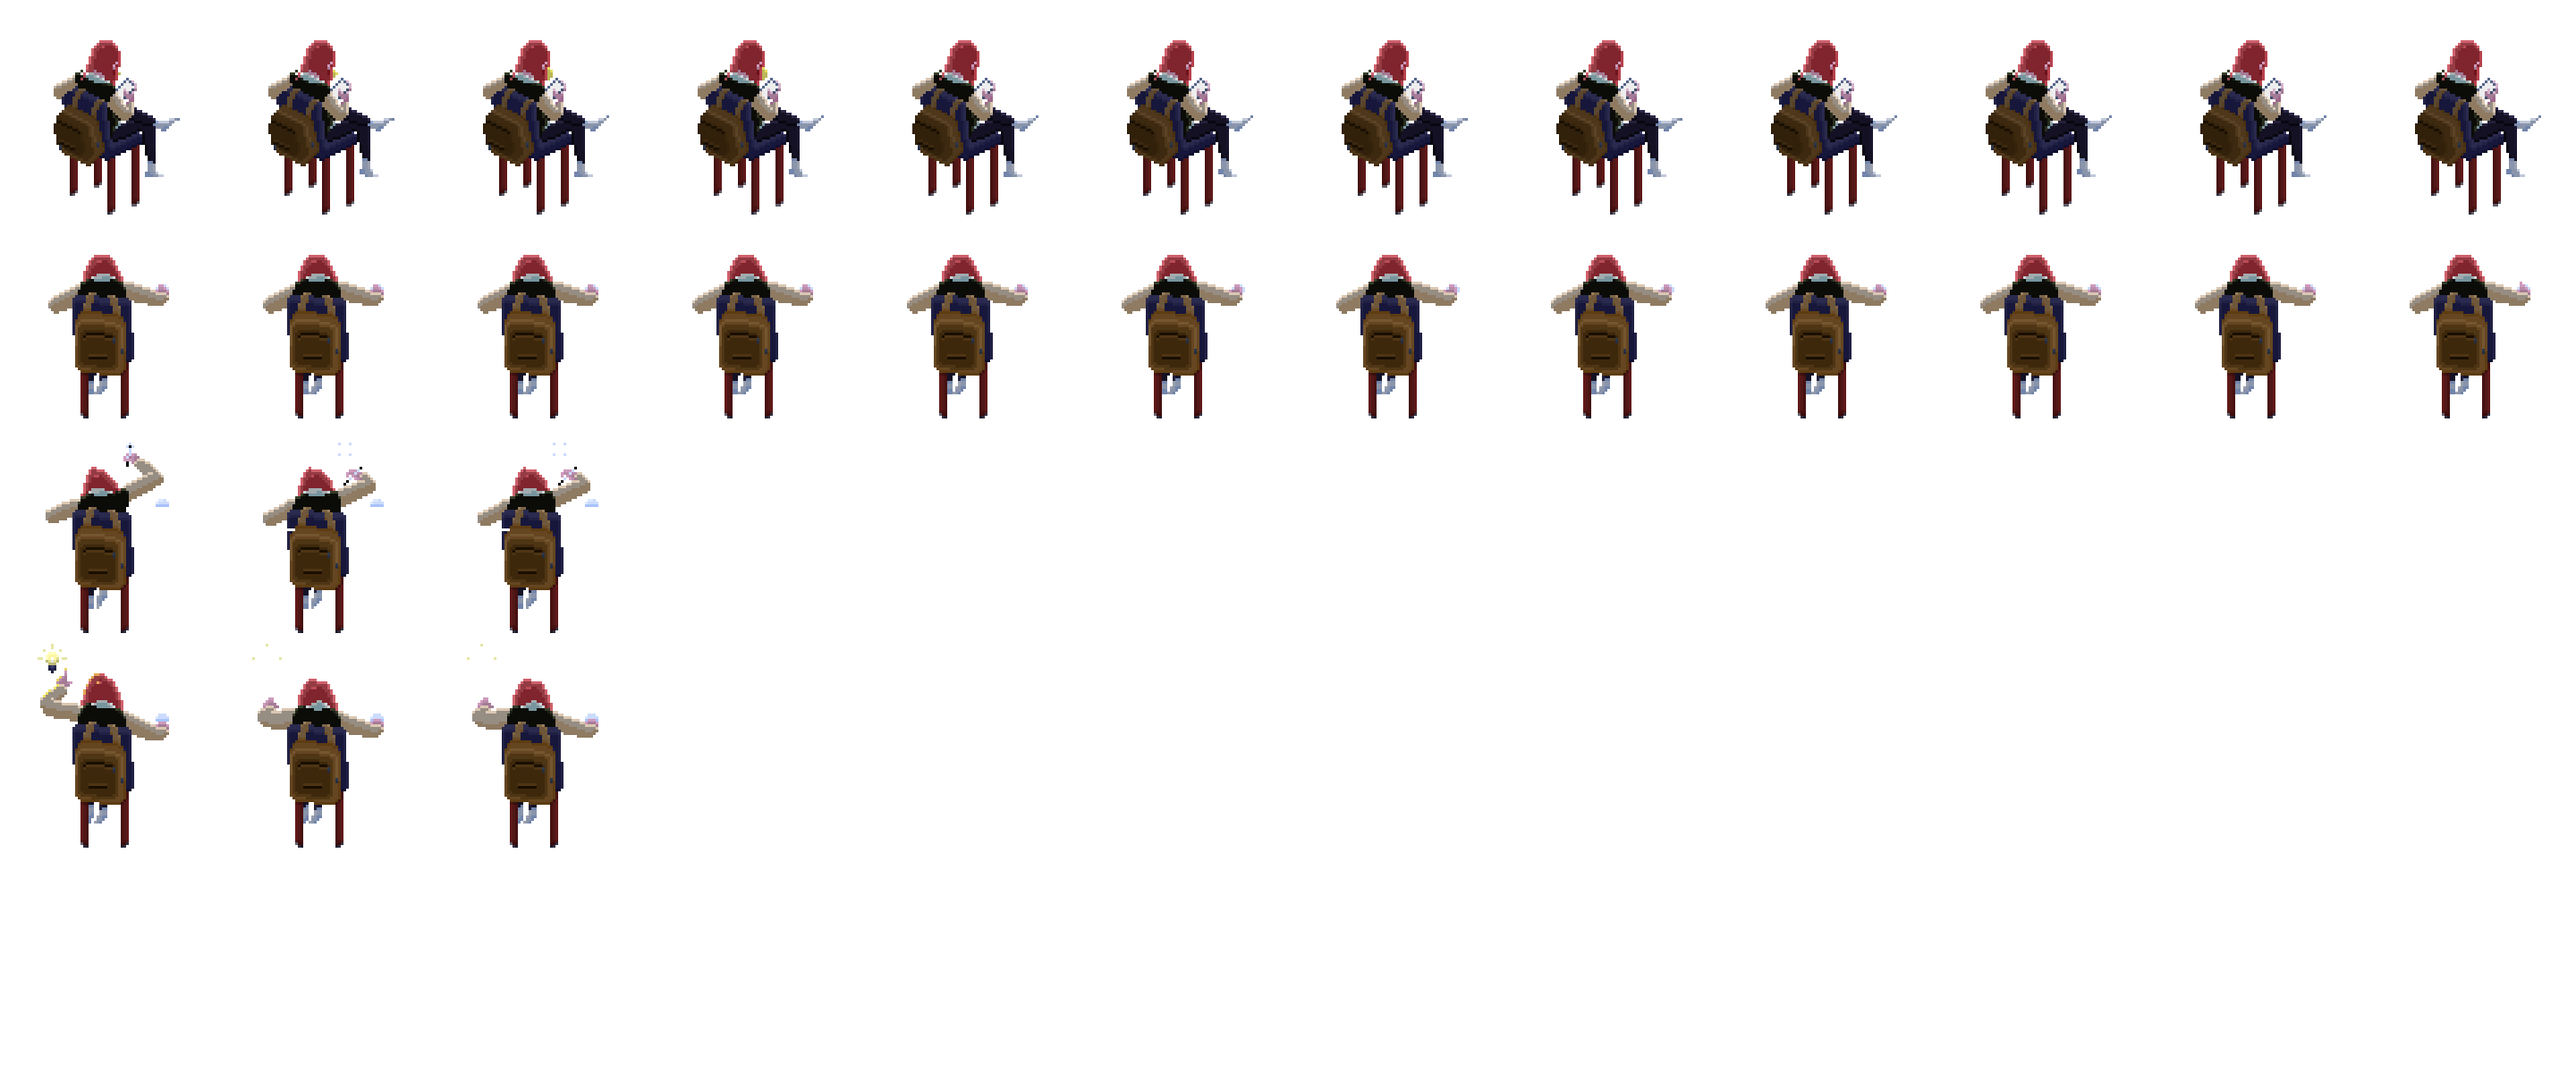
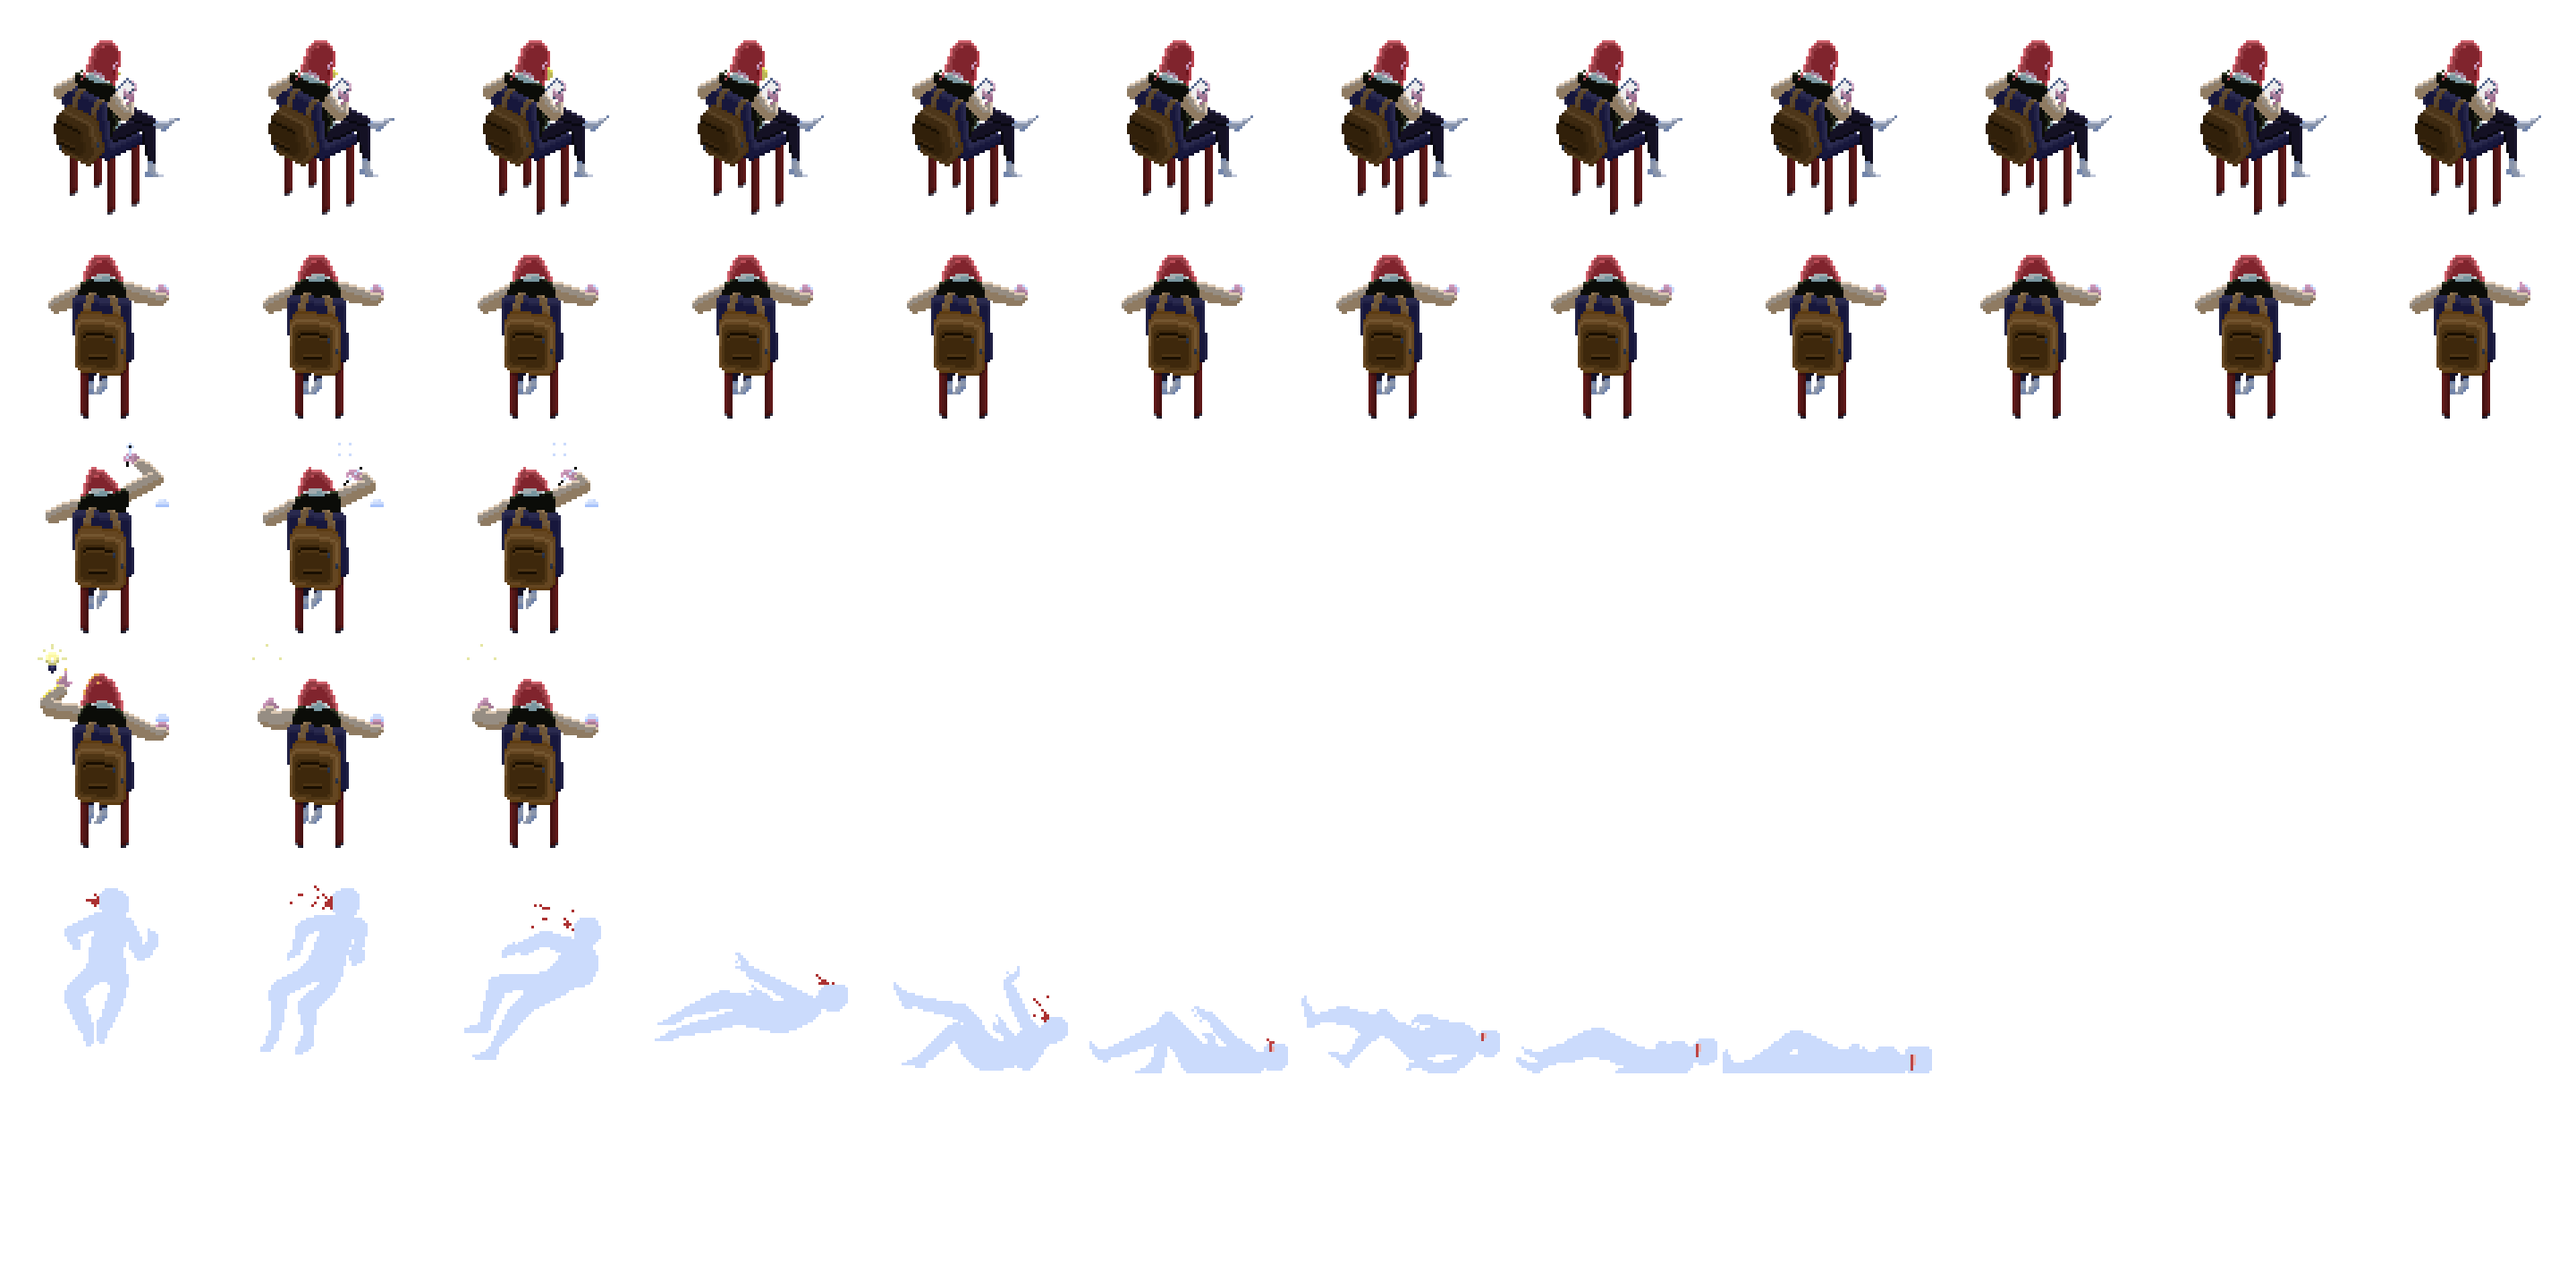
dead애니메이션 / 연출1, lerp
애니메이션은 좀 어색해서 추후 고칠 수도 있습니다

diff --git a/include/SDLGameObject.h b/include/SDLGameObject.h
@@ -9,19 +9,18 @@ public:
 };
 class ICLICK
 {
-public :
+public:
 	virtual void IsPressed(bool _isPush) = 0;
 };
 class SDLGameObject : public GameObject {
 public:
 	SDLGameObject(const LoaderParams* pParams);
 	virtual void draw();
-	virtual void update() 
-	{ 
+	virtual void update()
+	{
 		m_position += m_velocity;
-		//m_position.setX(m_position.getX() - m_width * 0.5f);
-		//m_position.setY(m_position.getY() - m_height * 0.5f);
-	} //m_velocity += m_acceleration;
+		m_velocity += m_acceleration;
+	}   
 	virtual void clean() {}
 	virtual ~SDLGameObject() {}
 
@@ -39,7 +38,7 @@ public:
 	virtual void OnEnable() {}
 protected:
 	Vector2D m_position;
-	Vector2D m_velocity; 
+	Vector2D m_velocity;
 	Vector2D m_acceleration;
 	float speed = 0.5;
 

diff --git a/src/GameObject/HealthBar.cpp b/src/GameObject/HealthBar.cpp
@@ -1,9 +1,11 @@
 #include <HealthBar.h>
 #include <Game.h>
 
-HealthBar::HealthBar(const LoaderParams* pParams) : SDLGameObject(pParams) 
+HealthBar::HealthBar(const LoaderParams* pParams, string getTag, int frameCount) : SDLGameObject(pParams) 
 {
-	animation->SetProp(m_textureID, 0.01f, 0, 12);
+	tag = getTag;
+
+	animation->SetProp(m_textureID, 0.01f, m_currentRow, frameCount);
 
 	animation->StartAnimation();
 	animation->SetAnimPause(true);

diff --git a/src/manager/TextureManager.cpp b/src/manager/TextureManager.cpp
@@ -61,10 +61,10 @@ void TextureManager::drawFrame(string id, int x, int y, int width, int height, i
 	float m_percent = (2 * percent) * 0.01f;
 
 	srcRect.w = width;
-	srcRect.h = m_percent * height;
+	srcRect.h = (int)(m_percent * height);
 
 	destRect.w = width;
-	destRect.h = m_percent * height;
+	destRect.h = (int)(m_percent * height);
 
 	srcRect.x = width * currentFrame;
 	srcRect.y = height * currentRow;

diff --git a/include/BackScroll.h b/include/BackScroll.h
@@ -1,0 +1,16 @@
+#pragma once
+#include <SDLGameObject.h>
+#include <vector>
+
+class BackScroll : public SDLGameObject
+{
+private:
+	BackScroll(const LoaderParams* pParams);
+	virtual void draw();
+	virtual void update();
+	virtual void clean() {}
+
+	vector<SDLGameObject*> backs;
+public:
+	//InItBacks();
+};

diff --git a/src/physics/Vector2D.cpp b/src/physics/Vector2D.cpp
@@ -1,7 +1,7 @@
 #pragma once
 #include <Vector2D.h>
 #include <iostream>
-//player.transform.position = new Vector2(1, 0); ==> 
+//Lerp(A, B, Alpha) = A x (1 - Alpha) + B x Alpha
 Vector2D Vector2D::operator+(const Vector2D& v2) const
 {
 	return Vector2D(m_x + v2.m_x, m_y + v2.m_y);

diff --git a/src/Animation/Animation.cpp b/src/Animation/Animation.cpp
@@ -4,11 +4,8 @@
 
 void Animation::Update()
 {
-	if (!m_animRunning)
-	{
-		m_currentFrame = 0;
-		return;
-	}
+	if (!m_animRunning) { return; }
+
 	double curTime = SDL_GetTicks();
 	m_currentFrame = (Uint32)((curTime - startTimer) * m_speed) % m_frameCount; 
 

diff --git a/include/HealthBar.h b/include/HealthBar.h
@@ -5,7 +5,7 @@
 class HealthBar : public SDLGameObject
 {
 public:
-	HealthBar(const LoaderParams* pParams);
+	HealthBar(const LoaderParams* pParams, string getTag, int frameCount);
 	virtual void draw();
 	virtual void update();
 	virtual void clean() {}
